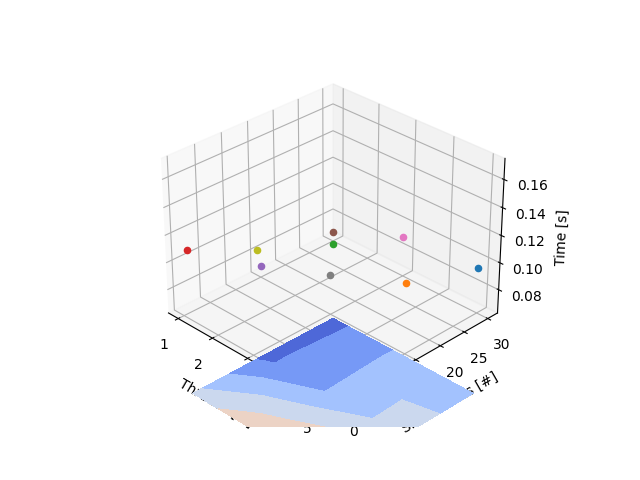
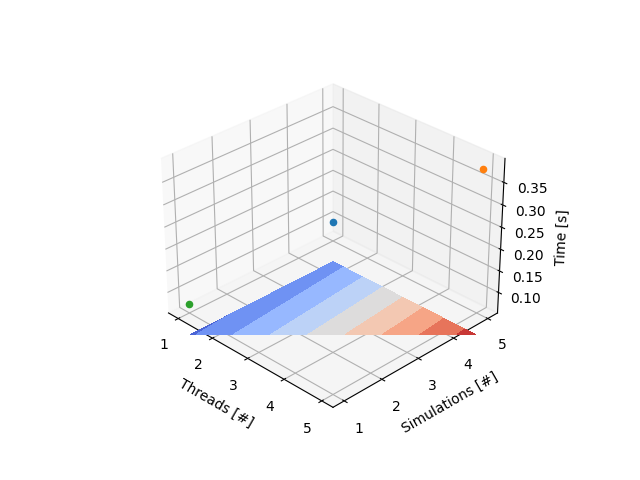
changes

diff --git a/post/times.py b/post/times.py
@@ -6,7 +6,6 @@ import matplotlib as mpl
 from matplotlib import cm
 import matplotlib.pyplot as plt
 
-
 def main():
     print("Plotting Times")
 
@@ -26,6 +25,14 @@ def main():
     sims = pathlib.Path("../build/study").glob("*.sim")
     times = pathlib.Path("../build/study").glob("*.time")
 
+    one_total_times = []
+    one_outer_times = []
+    one_inners_times = []
+
+    not_one_total_times = []
+    not_one_outer_times = []
+    not_one_inners_times = []
+
     threads = []
     num_simulations = []
     total_times = []
@@ -38,9 +45,33 @@ def main():
             json_data = json.loads(data)
 
             thread = json_data.get("num_threads")
+            num_simulation = json_data.get("num_simulations")
+
+            if (thread == 1 and num_simulation == 1):
+                total_time = json_data.get("total_time")
+                one_total_times.append(total_time)
+
+                # for outer_time in outer_times:
+                outer_times = json_data.get("outer_times")
+                one_outer_times.append(np.median(outer_times))
+
+                # for inner_time in inner_times:
+                inner_times = json_data.get("inner_times")
+                one_inners_times.append(np.median(inner_times))
+            else:
+                total_time = json_data.get("total_time")
+                not_one_total_times.append(total_time)
+
+                # for outer_time in outer_times:
+                outer_times = json_data.get("outer_times")
+                not_one_outer_times.append(np.median(outer_times))
+
+                # for inner_time in inner_times:
+                inner_times = json_data.get("inner_times")
+                not_one_inners_times.append(np.median(inner_times))
+
             threads.append(thread)
 
-            num_simulation = json_data.get("num_simulations")
             num_simulations.append(num_simulation)
 
             total_time = json_data.get("total_time")
@@ -48,15 +79,15 @@ def main():
 
             # for outer_time in outer_times:
             outer_times = json_data.get("outer_times")
-            outers_max.append(np.median(outer_times))
+            outers_max.append(max(outer_times))
 
             # for inner_time in inner_times:
             inner_times = json_data.get("inner_times")
-            inners_max.append(np.median(inner_times))
+            inners_max.append(max(inner_times))
 
             ax_0.scatter(thread, num_simulation, total_time)
-            ax_1.scatter(thread, num_simulation, np.median(outer_times))
-            ax_2.scatter(thread, num_simulation, np.median(inner_times))
+            ax_1.scatter(thread, num_simulation, max(outer_times))
+            ax_2.scatter(thread, num_simulation, max(inner_times))
 
     # ax_0.plot_trisurf(np.array(threads), np.array(num_simulations), np.array(total_times), cmap=cm.jet)
     ax_0.tricontourf(np.array(threads), np.array(num_simulations), np.array(total_times), zdir='z', offset=0, cmap=cm.coolwarm)
@@ -85,10 +116,16 @@ def main():
     ax_2.dist = 15
     ax_2.view_init(30, -45)
 
-
     fig_0.savefig('total_times.png')
     fig_1.savefig('outer_times.png')
     fig_2.savefig('inner_times.png')
+
+    print(compare_times(one_total_times, not_one_total_times))
+
+
+def compare_times(one_time, end_time):
+    factor = max(one_time) / max(end_time)
+    return factor
 
 if __name__ == '__main__':
     main()

diff --git a/source/main.cpp b/source/main.cpp
@@ -134,9 +134,6 @@ int main(int argc, char *argv[]){
                 local_statuses.push_back(traj_status);
                 omp_unset_lock(&local_statuses_write_lock);
 
-
-
-
                 omp_set_lock(&local_simulations_write_lock);
                 local_simulations.push_back(simulation.get_data());
                 omp_unset_lock(&local_simulations_write_lock);
@@ -147,7 +144,6 @@ int main(int argc, char *argv[]){
                 omp_set_lock(&inner_time_write_lock);
                 inner_times.push_back(inner_time);
                 omp_unset_lock(&inner_time_write_lock);
-
             }
             double outer_time_final = omp_get_wtime();
             double outer_time = outer_time_final - outer_time_initial;
@@ -171,11 +167,8 @@ int main(int argc, char *argv[]){
     double total_time_final = omp_get_wtime(); 
     double total_time_delta = total_time_final - total_time_initial;
 
-
     std::cout << "Total Simulation Time: " << total_time_delta << std::endl;
-
     std::cout << "Simulation Ended" << std::endl;
-
     std::cout << "Data Output Starting" << std::endl;
 
     simulation_functions::output_parent(study_name);
